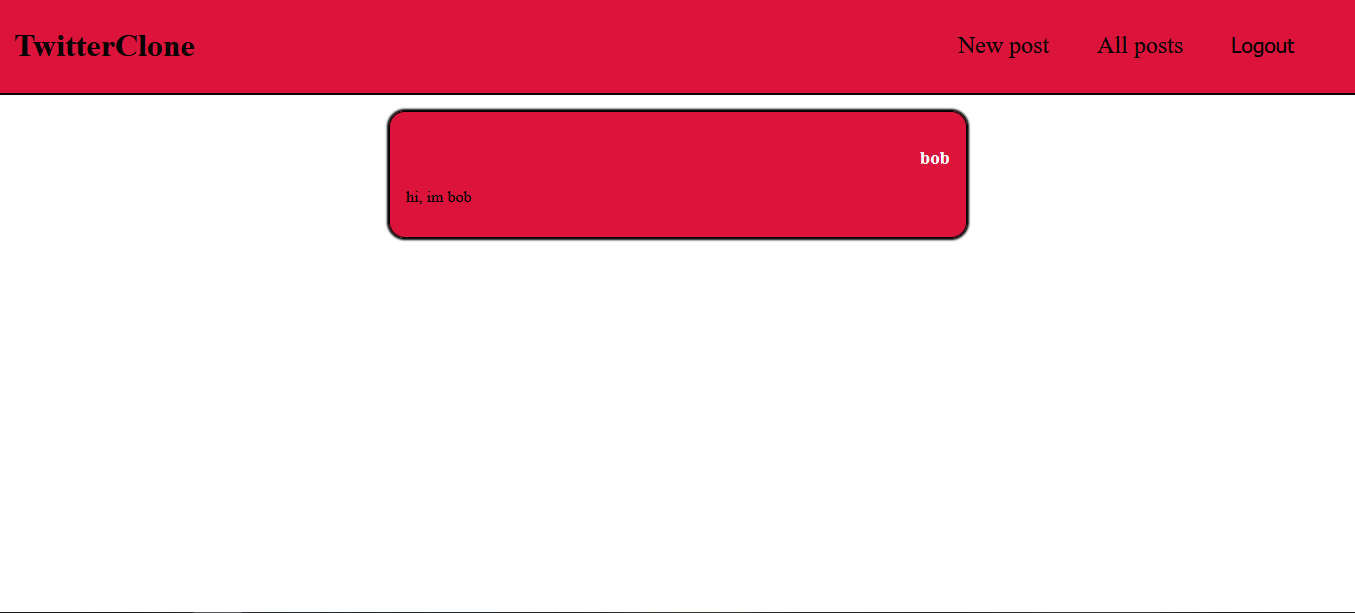
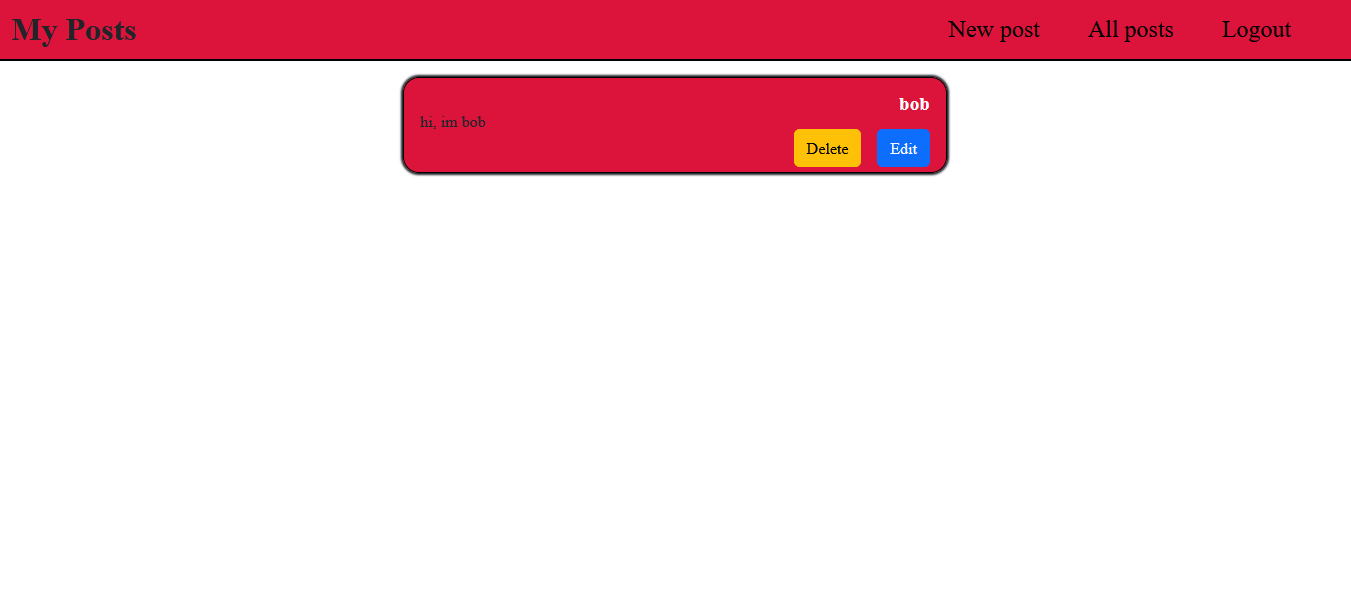
Add new images and update readme

Changed region(s): [[0.0, 0.0312, 1.0, 0.4056], [0.0, 0.9984, 1.0, 1.0]]

diff --git a/README.md b/README.md
@@ -25,7 +25,19 @@ If you are not logged in you can see all posts but if you click on "My posts" it
 ![Home page - With posts](https://github.com/owka54/PERN-TwitterClone/blob/master/home-withposts.png?raw=true)
 
 6. My posts page (Logged in as bob)
+ - Can edit a post or delete it.
 ![My posts page](https://github.com/owka54/PERN-TwitterClone/blob/master/my-posts.png?raw=true)
+
+7. Edit post page
+![Edit post page](https://github.com/owka54/PERN-TwitterClone/blob/master/edit-post.png?raw=true)
+
+8. See all of another user's posts
+- Click their username on a post
+![Home page - Hover over username](https://github.com/owka54/PERN-TwitterClone/blob/master/name-hover.png?raw=true)
+
+- View their posts
+![User posts page](https://github.com/owka54/PERN-TwitterClone/blob/master/user-posts.png?raw=true)
+
 
 
 ## Features to add
